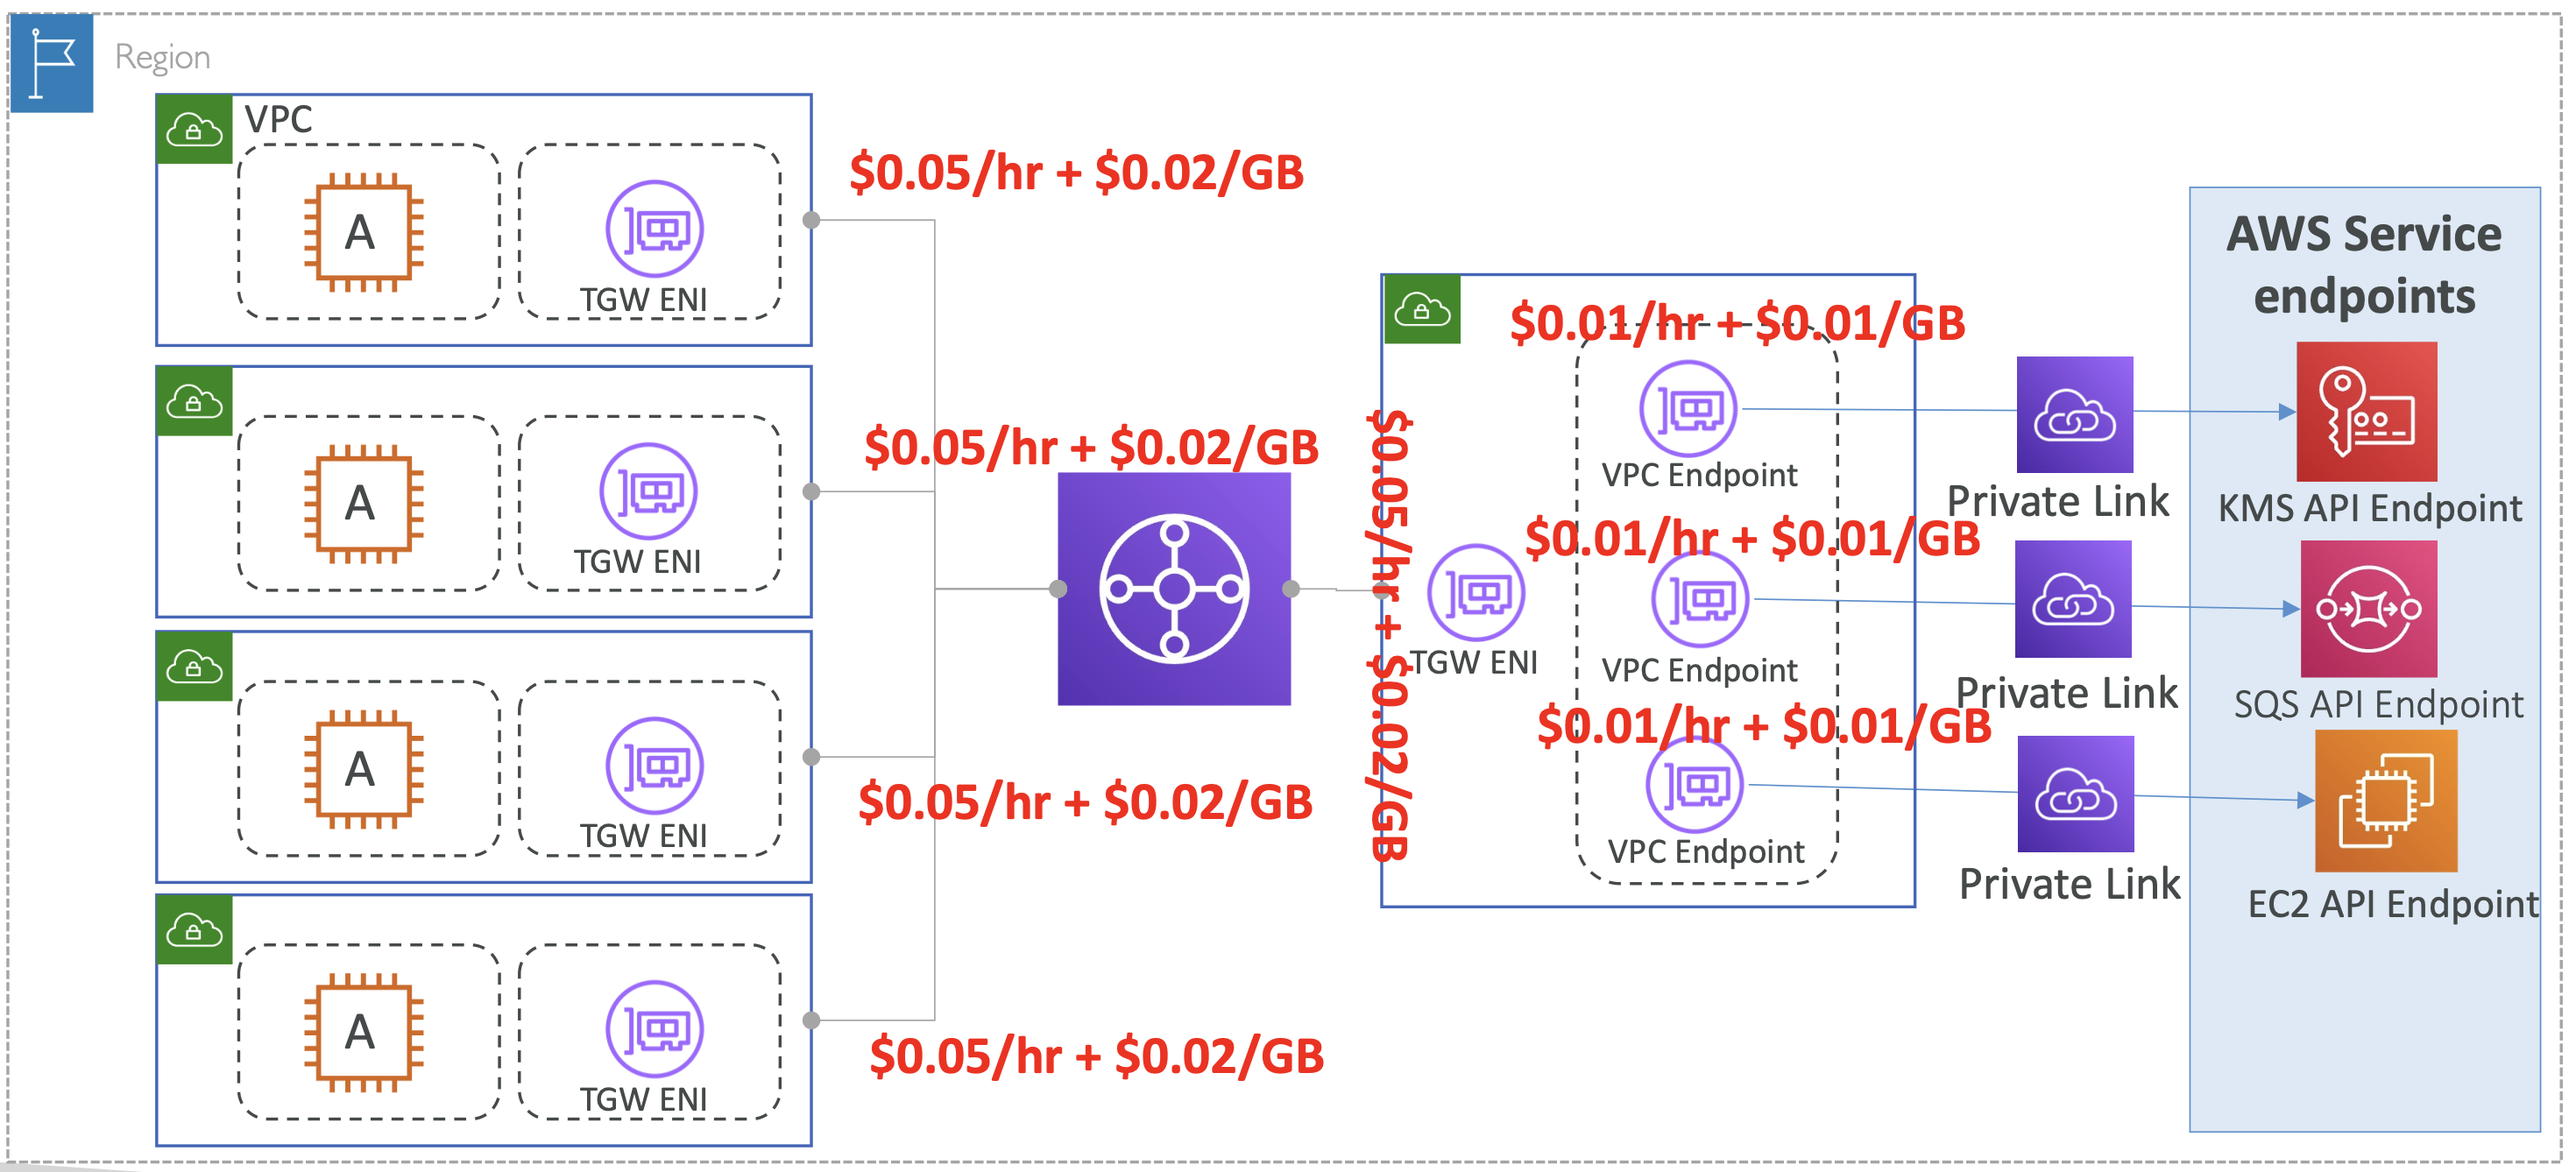
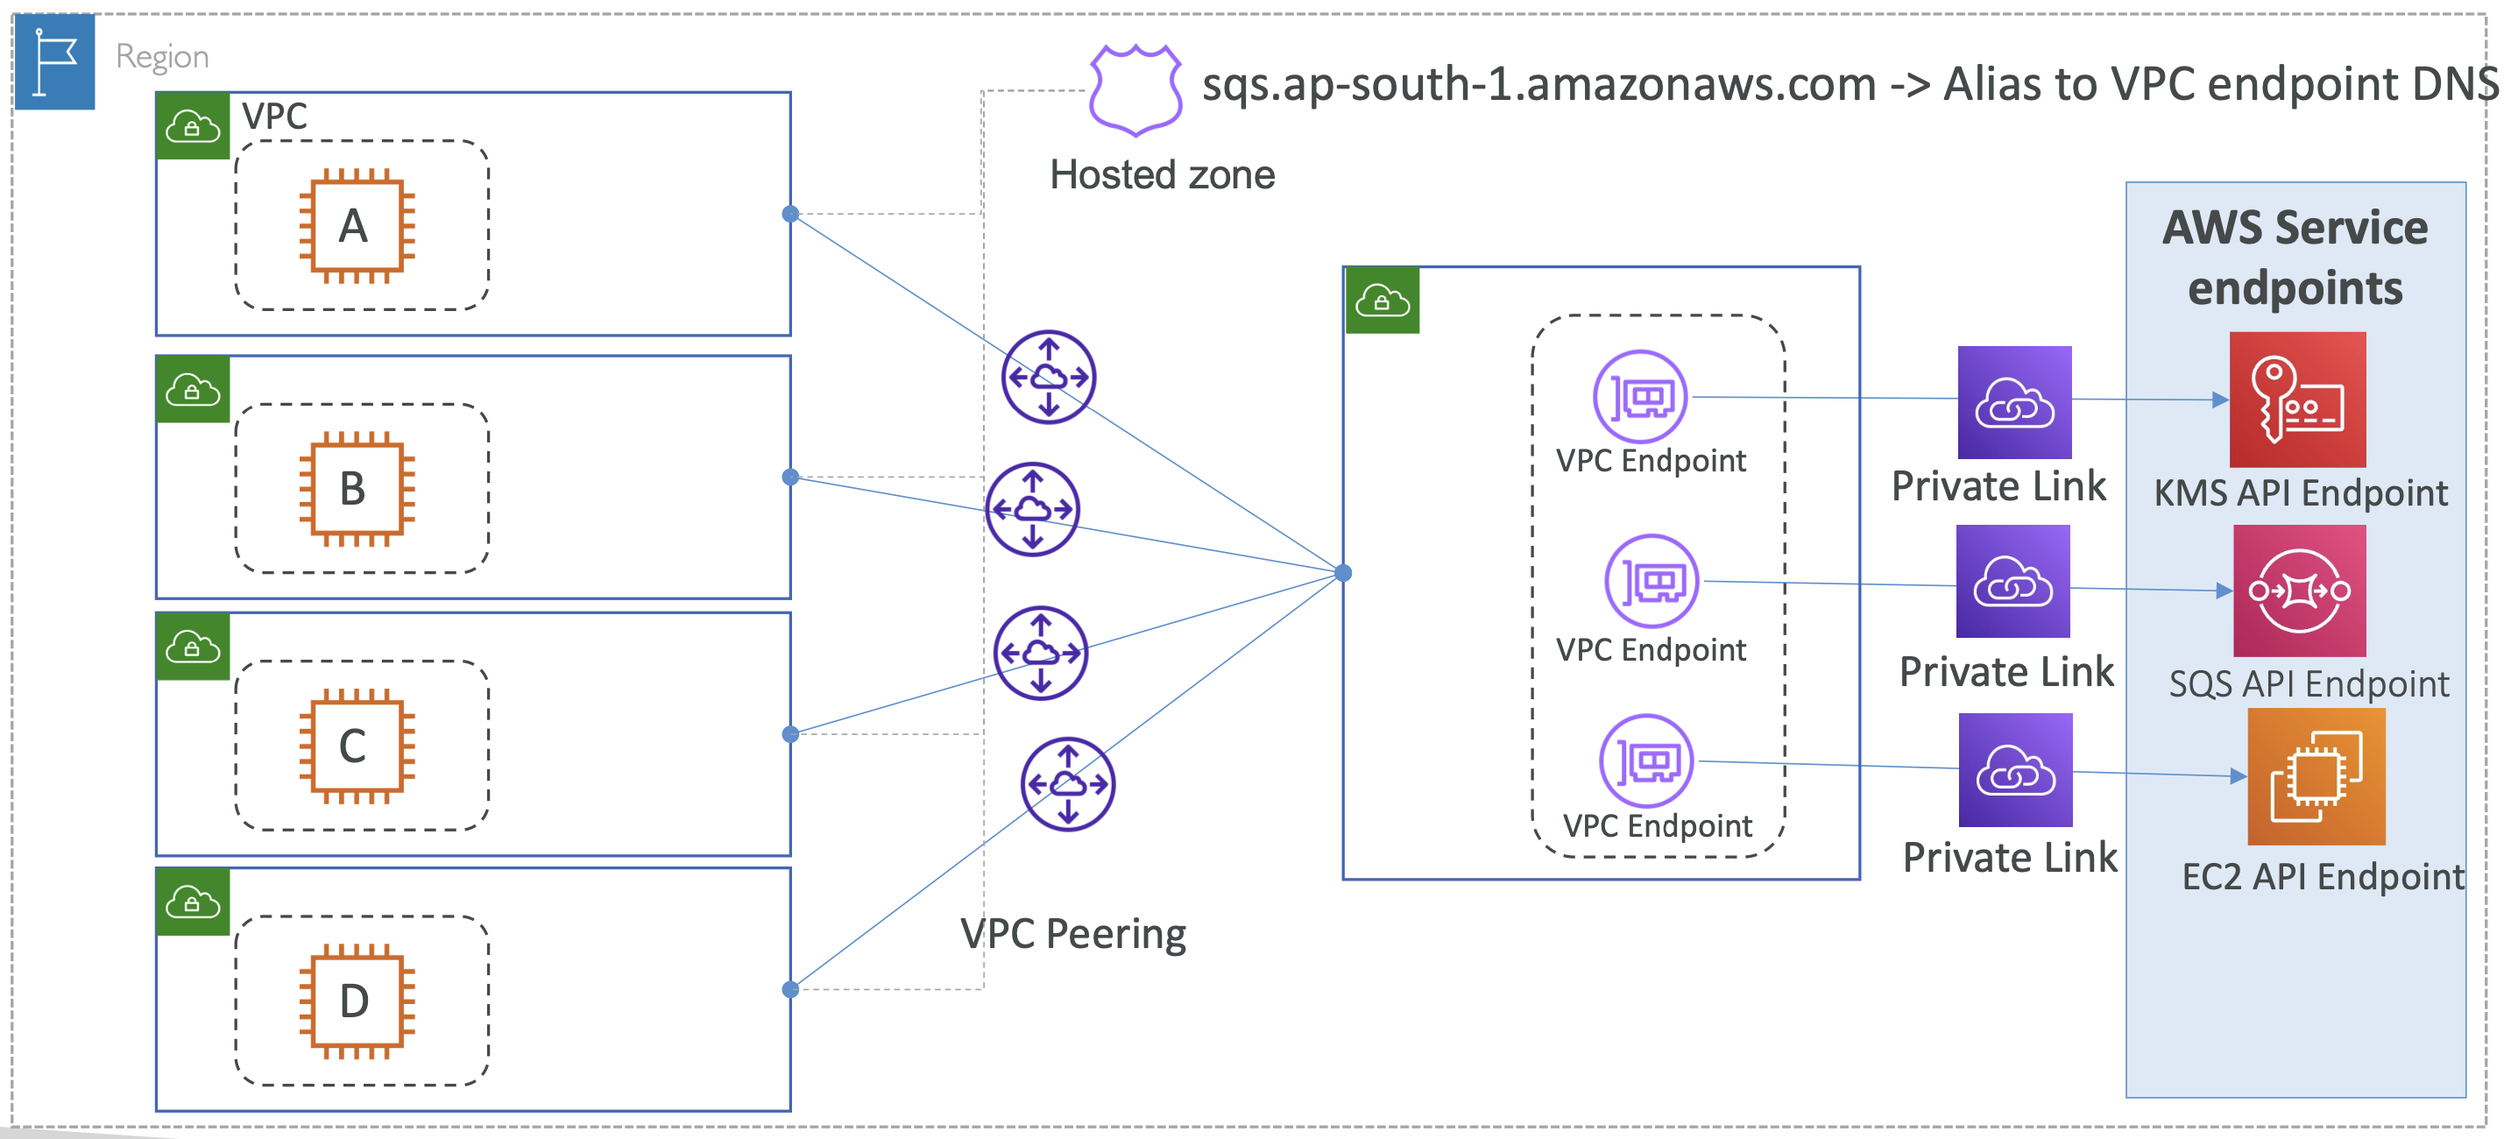
ANS: add summary of TGW Architecture: Centralized VPC interface endpoints

diff --git a/aws/ANS/tgw_architecture_centralized_vpc_interface_endpoints.md b/aws/ANS/tgw_architecture_centralized_vpc_interface_endpoints.md
@@ -32,12 +32,12 @@ VPC B, VPC C, VPC D에 각자 서비스에 연결 시켜줘야 함 → 관리 X
 
 #### 해결법
 
-: **Transit Gateway**
+\: **Transit Gateway**
 
 - 모든 Spoke VPC에 프라이빗하게 연결됨
 - 모든 접근을 중앙 관리
 
-<br><img src="./img/tgw_architecture_centralized_vpc_interface_endpoints_img3.png" width="100%" /><br>
+<br><img src="./img/tgw_architecture_centralized_vpc_interface_endpoints_img3.png" width="80%" /><br>
 
 <br />
 
@@ -71,13 +71,13 @@ VPC Endpoint에 **Private DNS 설정 활성화**
 - 여전히 Spoke VPC들에서는 SQS API Endpoint 를 해석(resolve)하지 못함
   - 오직 Egress VPC (VPC Endpoint가 포함된)에서만 해석할 수 있음
 
-<br><img src="./img/tgw_architecture_centralized_vpc_interface_endpoints_img4.png" width="100%" /><br>
+<br><img src="./img/tgw_architecture_centralized_vpc_interface_endpoints_img4.png" width="80%" /><br>
 
 <br />
 
 #### 해결책
 
-<br><img src="./img/tgw_architecture_centralized_vpc_interface_endpoints_img5.png" width="100%" /><br>
+<br><img src="./img/tgw_architecture_centralized_vpc_interface_endpoints_img5.png" width="80%" /><br>
 
 1. VPC endpoints의 private DNS를 비활성화
 2. AWS Service API Endpoint 와 동일한 이름의 Private Hosted Zone(PHZ) 생성 (e.g. `sqs.ap-south-1.amazonaws.com`)
@@ -98,22 +98,40 @@ VPC Endpoint에 **Private DNS 설정 활성화**
 
 > Q. Regional DNS Resolution 인 걸 어떻게 알지???
 
-## 요금: 개별 연결
+<br />
 
-<br><img src="./img/tgw_architecture_centralized_vpc_interface_endpoints_img7.png" width="100%" /><br>
+### 개별 VPC ENI 연결 시 요금
 
-1. VPC interface endpoint의 시간 당 요금: `$0.01/hr`
-2. VPC interface endpoint의 용량 당 요금: `$0.01/GB`
+<br><img src="./img/tgw_architecture_centralized_vpc_interface_endpoints_img7.png" width="80%" /><br>
 
-=> 많은 요금이 부과됨
+VPC interface endpoint의 **시간 별 요금** + **데이터 전송 요금**: `$0.01/hr` + `$0.01/GB`
+
+→ 많은 요금이 부과됨
 
 여기서 Transit Gateway 를 사용한다고 해서 많은 요금이 절감된다는 것은 아님
 
-## 요금: Transit Gateway
+<br />
 
-<br><img src="./img/tgw_architecture_centralized_vpc_interface_endpoints_img8.png" width="100%" /><br>
+### Transit Gateway 사용 시 요금
 
-Attachment 요금
+<br><img src="./img/tgw_architecture_centralized_vpc_interface_endpoints_img8.png" width="80%" /><br>
+
+VPC 별 Attachment 요금 + 데이터 전송 요금: `$0.05/hr` + `$0.02/GB` + etc...
+
+→ VPC interface endpoint 요금보다 훨씬 더 비쌈
+
+<br />
+
+### VPC peering 사용 시 요금
+
+<br><img src="./img/tgw_architecture_centralized_vpc_interface_endpoints_img9.png" width="80%" /><br>
+
+또 하나의 아키텍처를 보면, Transit gateway를 사용하는 대신, VPC peering connection을 사용해서 Spoke VPC 들과 중앙 VPC 사이를 연결할 수도 있음 
+
+이 때, VPC peering는 요금이 따로 없음
+
+
+
 
 <br />
 
